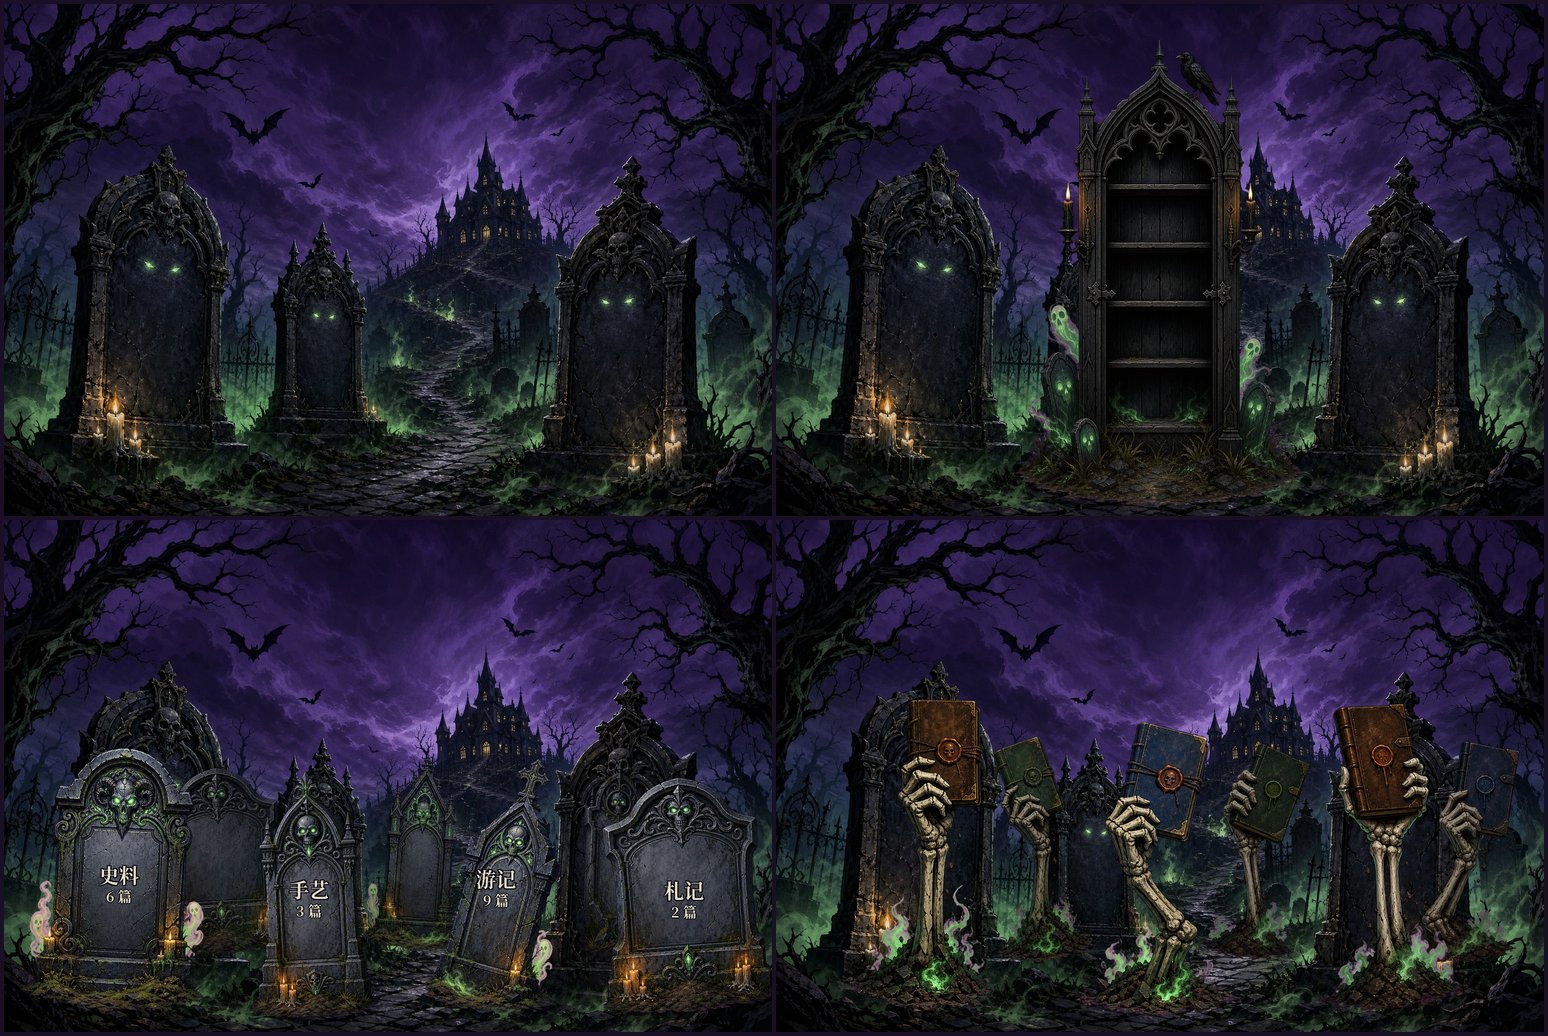
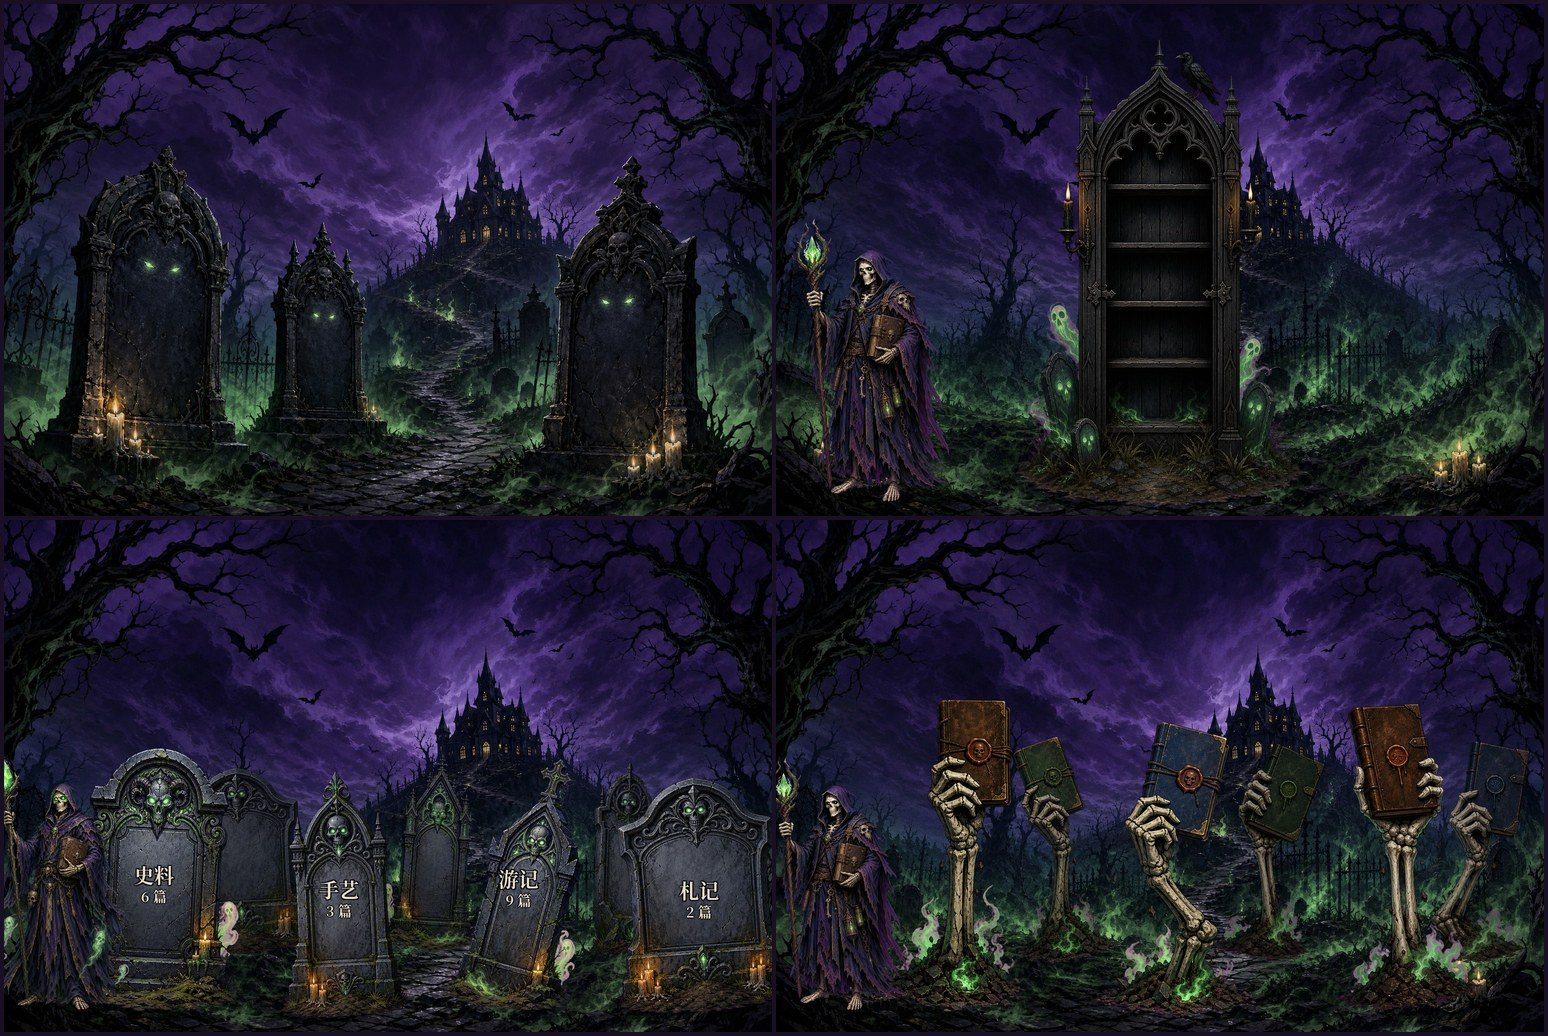
空场背景与骷髅魔法师出图；三个功能场换空场底重拼，魔法师站场边
- docs/ui-prompts.md：P008 空场背景（edit 端点带首页图）、P009 骷髅魔法师
- docs/ui-trials1.jpg 四屏重拼、docs/ui-trials1-mage.jpg 魔法师两张
- STATUS.md

Changed region(s): [[0.0, 0.6486, 0.9922, 0.9884], [0.4961, 0.1544, 0.7132, 0.4942], [0.8062, 0.1544, 0.9922, 0.4942]]

diff --git a/STATUS.md b/STATUS.md
@@ -11,6 +11,7 @@ updated: 2026-11-06
 # 状态
 
 ## 现在停在哪
+- 2026-11-06 晚 用户「开始」→ 空场背景两张（P008，edit 端点带首页图，同一片天与宅子、前景清空）与骷髅魔法师两张（P009）出图，共 1.5 元；三个功能场换成空场底重拼（书架占 92% 高、碑前排占一半高并刻夹名、骨臂放大），魔法师站在场边（docs/ui-trials1.jpg，魔法师两张 docs/ui-trials1-mage.jpg）；盲测墙重跑 tools/out/ui/trials1/wall2.jpg。等用户看图：过不过门、魔法师选第 1 张（腰挂灯笼，管书的）还是第 2 张（眼发绿光，身边绕幽灵）、角色定不定为守墓施法者。过门后对图校正色板，进阶段 1。
 - 2026-11-06 晚 用户看第一次拼样：功能页背景里还留着首页三碑，乱；书架要占绝大部分屏幕；放卡的碑不能小，字要看得清；骷髅魔法师还没做 → 规则进圣经第八之三节（功能场用没有前景碑的「空场」背景；书架高 ≥ 85% 视口；档案碑前排 ≥ 45% 视口、刻名 ≥ 22 像素、前排至多四座；骨臂 ≥ 55%），分镜与计划同步；三屏按新尺寸重拼并在碑面刻了夹名（docs/ui-trials1.jpg）。待生图两件（先报价）：空场背景（edit 端点拿首页图当参考，2 张）与骷髅魔法师（角色待用户定：建议作守墓的施法者，进场戏由它举杖召出书架 / 碑 / 骨臂，平时站在场边当向导）。
 - 2026-11-06 晚 用户「开始」→ 第二轮试笔八张出图（P004 到 P007，共 3.0 元；透明底被接口拒绝，零件回到洋红色键，给人看的只有拼好的屏）。甲首页两张都齐（紫云、枯枝压顶、三碑绿眼、宅子、绿雾、烛），乙书架两张、丙碑六座、丁手臂六只全部抠出，按错落规则拼成首页 / 书架场 / 档案场 / 笔记场四屏（docs/ui-trials1.jpg，零件表 docs/ui-trials1-parts.jpg，原图在 tools/out/ui/trials1/ 不入库）。盲测墙 tools/out/ui/trials1/wall.jpg（七格：用户三张图加我们四屏）：明度、彩度、饱和四屏都在参考范围内，描边密度两屏略低于参考下限（参考三的墨线特别密）。等用户看墙猜哪几格是我们的、定过不过门；过门后对图校正色板，进阶段 1 原子。
 - 2026-11-06 晚 用户：洋红底不好看，能不能用别的场景底；墓碑和骷髅手要有错落感 → 查到 fal 的 gpt-image-2 有 `background: transparent`，给 ~/brain/3-Resources/media-toolkit/fal_image2.py 加了 `--bg transparent` 与 `--format`，零件直接出透明底，洋红底废止；定规矩"给人看的一律先贴到场景底上再看"。错落规则写进圣经第八之二节（三种变体轮用、前后两排、歪 3 到 8 度、主角在前、按编号做种子稳定），分镜与计划同步；灰盒原型的碑与手臂改成错落并重出分镜图。第二轮试笔改为：甲首页场景、乙书架透明底、丙三种碑一张表、丁三种手臂一张表，八张约 3 元，等用户点头。
@@ -96,6 +97,7 @@ updated: 2026-11-06
 - 宝石规则是否改成按"能不能回忆"定（沿自 BRIEF）。
 
 ## 日志
+- 2026-11-06 晚 空场背景与骷髅魔法师出图（1.5 元），三屏换底重拼，P008 到 P009。
 - 2026-11-06 晚 尺寸下限与空场背景规则进圣经；三屏重拼（书架占满、碑刻名）。
 - 2026-11-06 晚 第二轮试笔八张（3.0 元），四屏拼样与盲测墙，docs/ui-prompts.md P004 到 P007。
 - 2026-11-06 晚 洋红底废止改透明底直出（脚本加 --bg）；错落规则进圣经；原型碑与手臂错落，分镜重出。

diff --git a/docs/ui-prompts.md b/docs/ui-prompts.md
@@ -11,3 +11,5 @@
 | P005 | 2026-11-06 | 乙 哥特尖拱书架（第二轮试笔） | 中档，2:3，2 张，洋红底（接口拒绝 background=transparent） | A tall black gothic bookcase with a pointed arch top and carved tracery, dark aged wood with iron fittings, four empty shelves, a lit black candle on a sconce on each side, a small raven perched on top, a mound of graveyard earth and grass at the base as if it rose from the ground. Front view, feet on the ground. Isolated on a solid flat magenta #FF00FF background, nothing touching the edges. | 0.752 元 | 两张都好：尖拱、烛台、乌鸦、土堆都有，底边自带两只小幽灵；抠底干净 |
 | P006 | 2026-11-06 | 丙 档案碑三种一张表（第二轮试笔） | 中档，3:2，2 张，洋红底 | A sheet of three different weathered gothic tombstones standing side by side with generous spacing: different heights and shapes (one tall with an ornate carved top, one wide and squat, one leaning slightly), each with a large blank smooth recessed panel on its face for an inscription, moss and cracks, a faint green glow inside the carvings, a small mound of earth and grass at each base. Front view, same scale and lighting. Isolated on a solid flat magenta #FF00FF background, nothing touching the edges. | 0.752 元 | 两张各拆出三座，六种碑形，碑面都是空板可刻夹名，`cut.py --split` 一次拆开 |
 | P007 | 2026-11-06 | 丁 骷髅手臂三种一张表（第二轮试笔） | 中档，3:2，2 张，洋红底 | A sheet of three different skeleton arms reaching up out of small mounds of graveyard earth, side by side with generous spacing: different lengths and angles (one straight up, one leaning left, one leaning right with a bent elbow), each bony hand gripping a different closed old leather notebook (brown, dark green, dark blue) with a wax seal, held upright for the viewer, loose soil falling off the bones, a wisp of green fog at each base. Front view, same scale and lighting. Isolated on a solid flat magenta #FF00FF background, nothing touching the edges. | 0.752 元 | 两张各拆出三只，六种手臂与六本不同封面的本子，拆分时各多出一两块土粒小碎片（已滤掉） |
+| P008 | 2026-11-06 | 空场背景（功能场底） | 中档，3:2，2 张，edit 端点带首页图 P004-2 当参考 | The same graveyard scene as the reference image: same violet storm sky, same black twisted trees framing the top, same gothic manor on the hilltop, same winding path and green fog, but with the three foreground tombstones removed: an empty clearing of mossy ground and green fog in the foreground and middle ground, nothing standing there, a few candles at the far edges only. 3:2 landscape, full-bleed scene. | 0.752 元 | 两张都和首页同一片天、同一座宅子、同一条路，前景清空；第 1 张前景更干净，作为三个功能场的底 |
+| P009 | 2026-11-06 | 骷髅魔法师（守墓施法者，角色待用户定） | 中档，2:3，2 张，洋红底 | A skeleton necromancer librarian standing, full body, front three-quarter view: tattered dark-indigo robe with a hood, a gnarled wooden staff topped with a green glowing crystal raised in one bony hand, an old leather book under the other arm, bone-white skull with small green glowing eyes, calm and scholarly, not menacing. Feet on the ground. Isolated on a solid flat magenta #FF00FF background, nothing touching the edges. | 0.752 元 | 两张都是兜帽靛袍、绿晶杖、夹着书；第 1 张腰挂小灯笼更像管书的，第 2 张眼发绿光、身边绕着幽灵更像施法的；抠底干净 |
